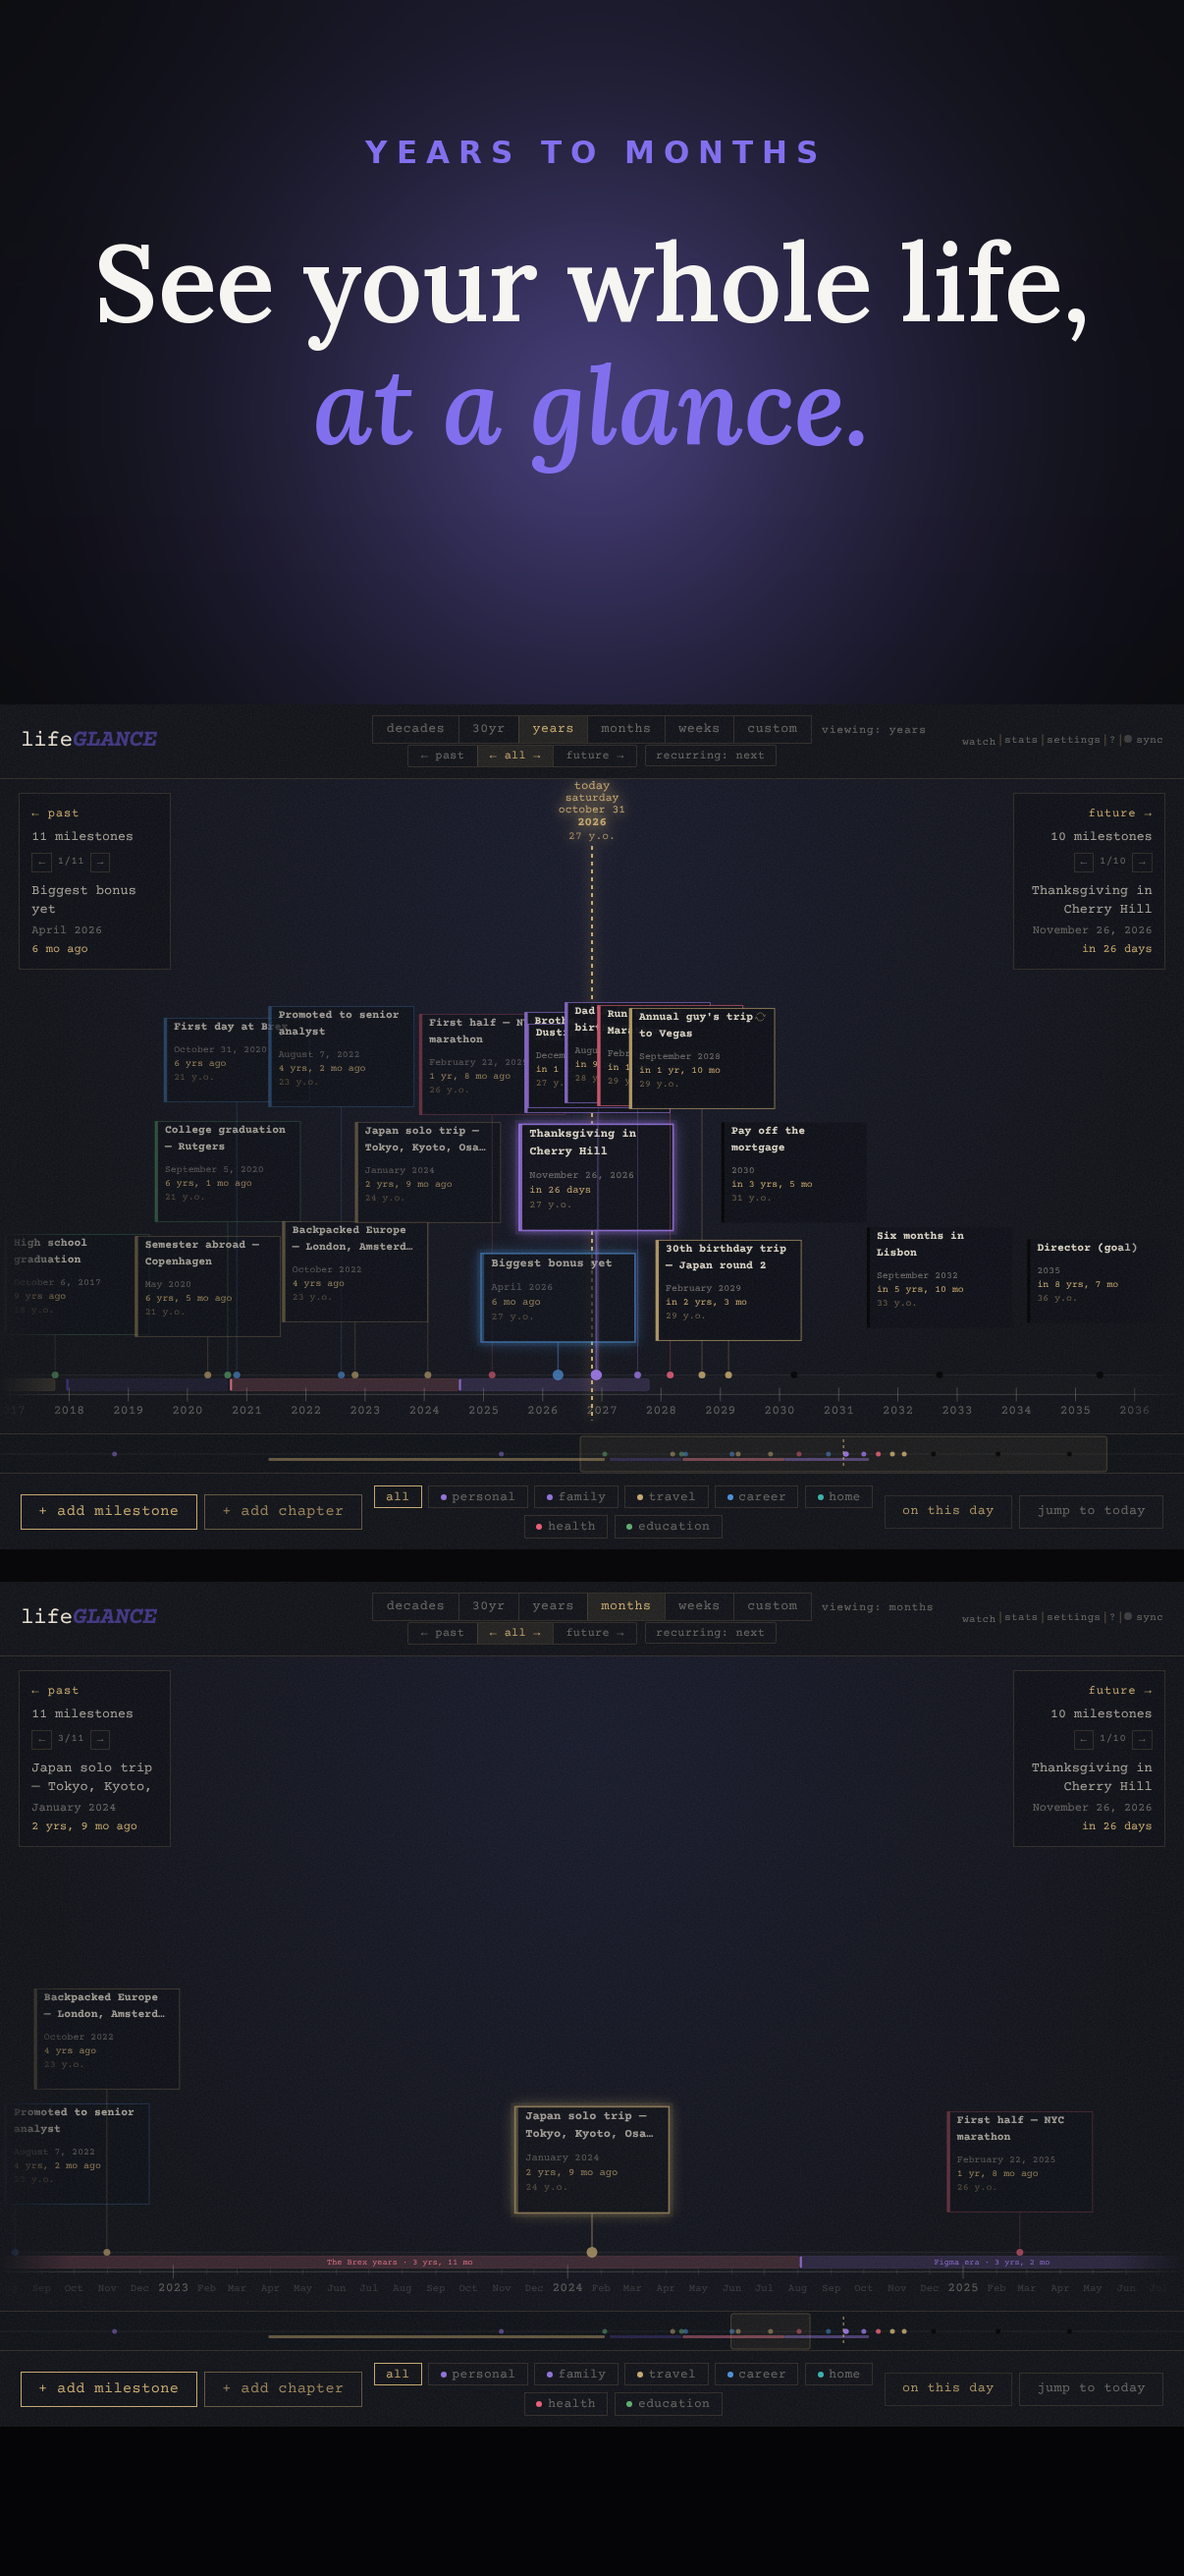
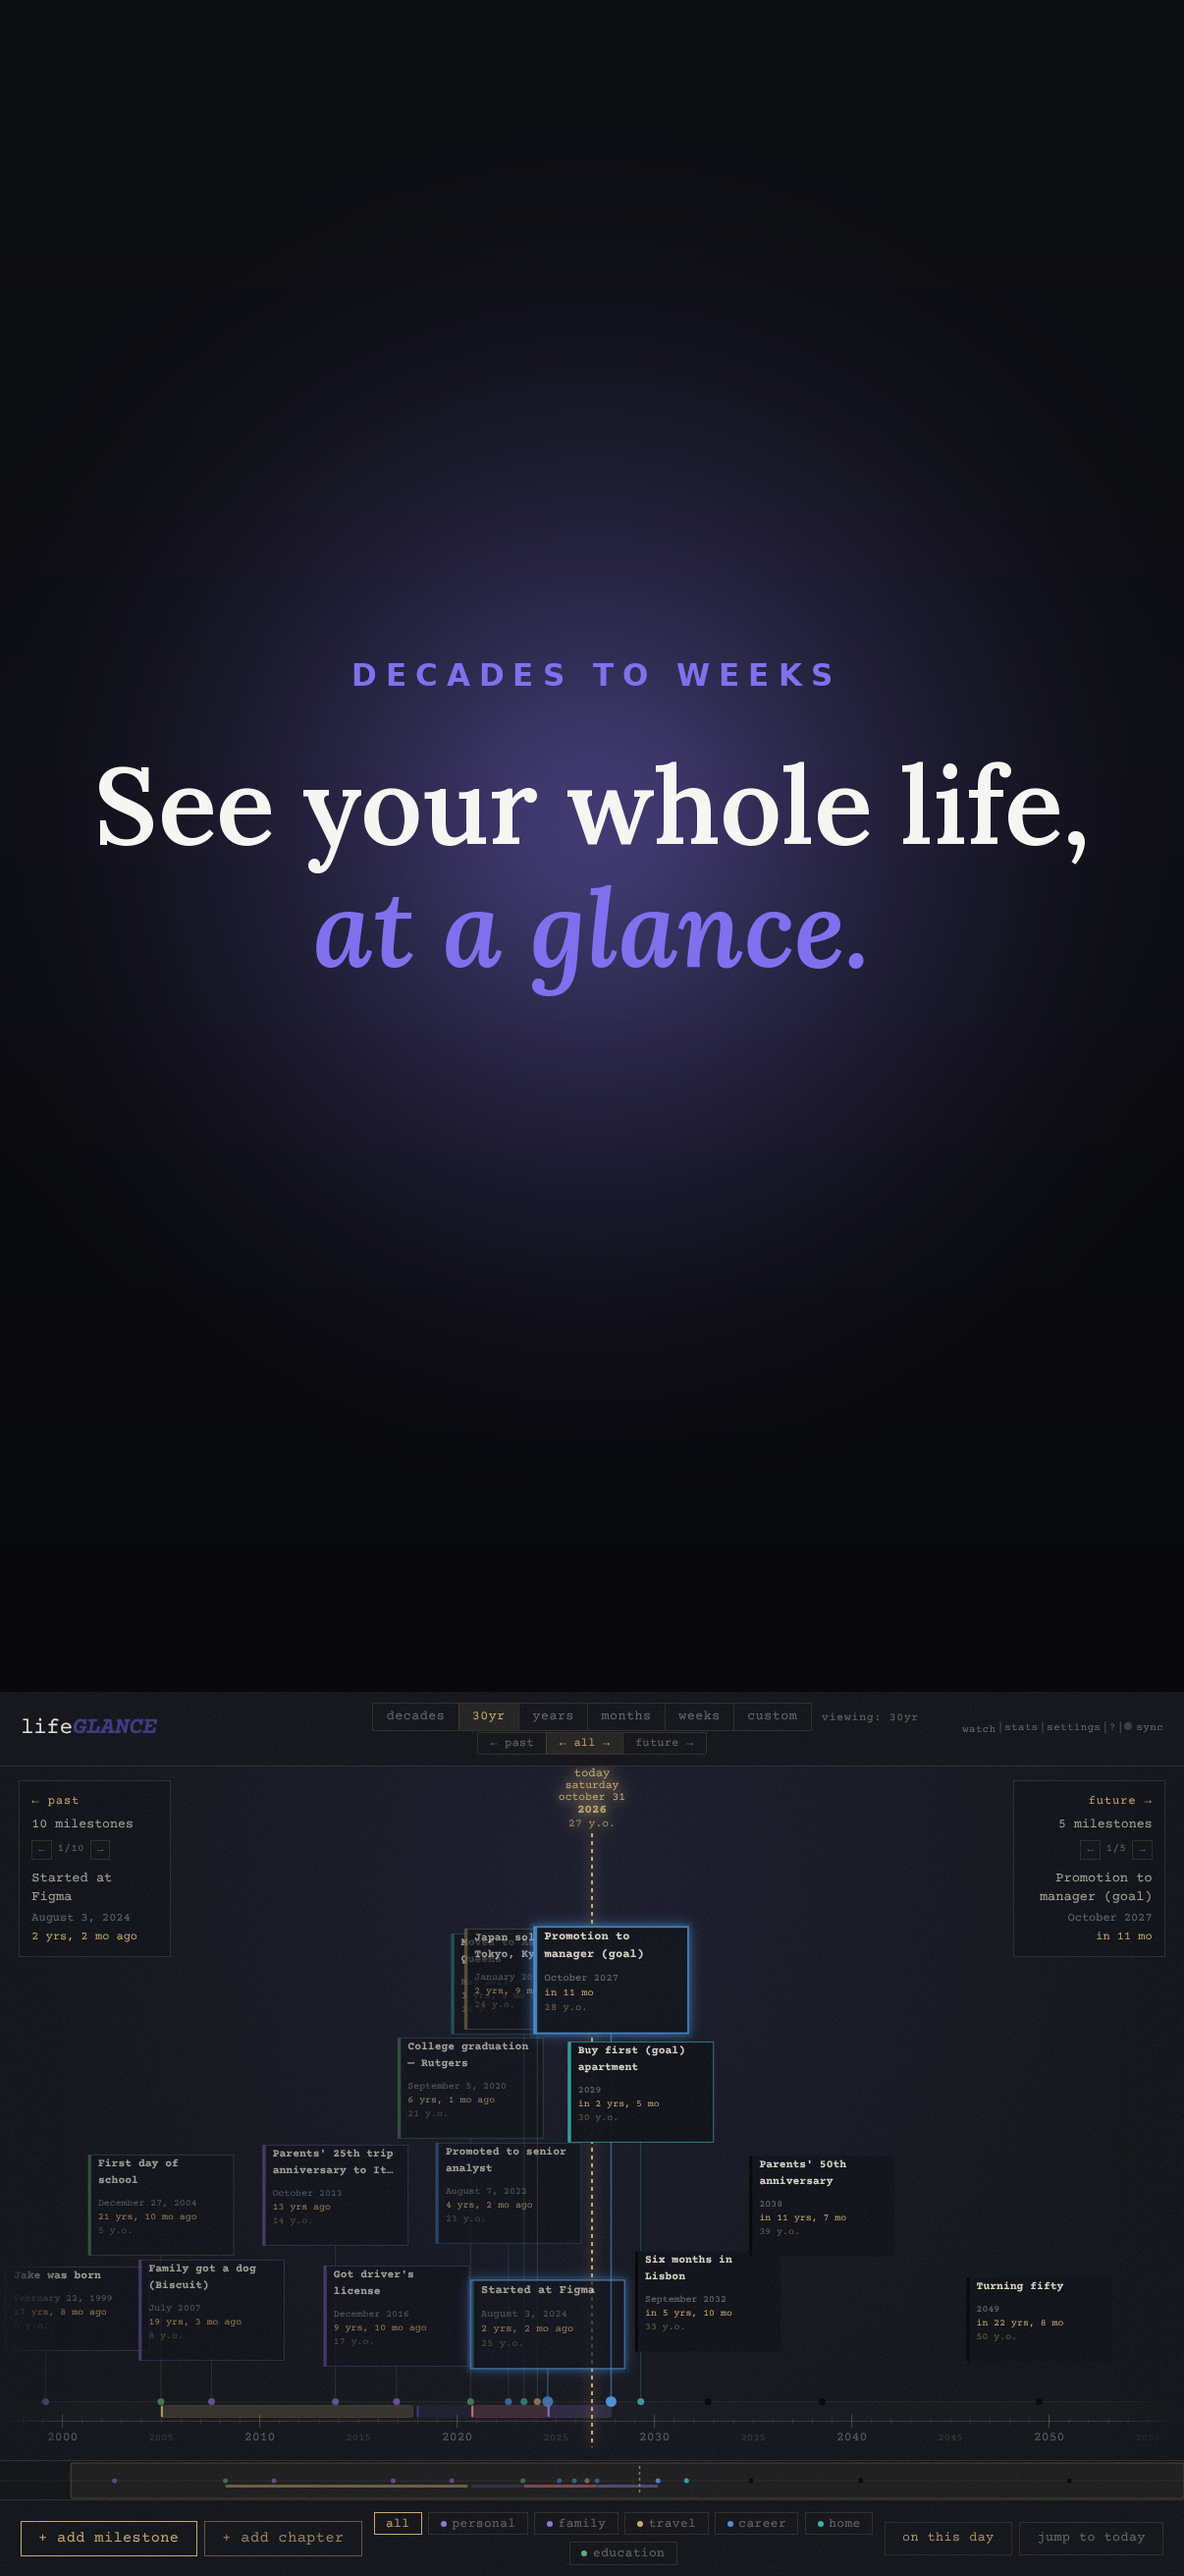
Reseed and reframe store screenshots 1 and 2
Both frames failed the same way: the pile-up was a seed problem, not a layout
one. About twenty milestones sat between 2017 and 2030 while the eighteen years
before that were nearly bare, so the cards collided in one decade however many
lanes the layout offered.

Shots 1 and 2 now draw on their own seed: thirteen milestones picked from the
same persona and spaced across five decades, plus far-future entries so the
right of a sixty-year window is not dead. Every other shot keeps the ordinary
seed and is untouched — an ONLY filter in both scripts renders a subset, so a
re-run cannot move a signed-off frame.

Shot 1 is one pane rather than two stacked, which is what fixes the collisions:
one pane gets the lanes that were previously split between two. It stays at
30yr, which the reseed made viable — the span now carries cards from 1999 to
2049 with the today marker and age legible, so the caption keeps its claim on
the span and no fallback headline was needed.

Shot 2 is also one pane. The caption promises chapters, so the frame had to be
of chapters: it zooms to months, where a ribbon is wide enough to carry its
name and duration (at years they degrade to unlabelled stripes, and cropping
only magnifies stripes), and the compositor crops into a 2x capture at 1:1 to
drop the empty head and the footer chrome. What is left is a run of milestones
sitting on a labelled era.

A compact-layout pane tops out near 900px tall, so for these two the caption
[…]

diff --git a/scripts/compose-apple-frames.py b/scripts/compose-apple-frames.py
@@ -14,6 +14,7 @@ The kit's background loop is per-pixel Python, which costs ~40s on a 2752x2064
 canvas. Vectorised here with numpy; the output is the same image.
 """
 import json
+import os
 import sys
 from pathlib import Path
 
@@ -125,10 +126,19 @@ def draw_bullets(canvas, bullets, top, bottom, size=56, gap=130):
         d.text((x + dot_r * 2 + dot_gap, ly), text, font=f, fill=fg)
 
 
-def fit_width(path, width):
+def fit_width(path, width, crop=None):
     """Load a pane and scale it to the canvas width. Full bleed: no bezel, no
-    mask, no shadow — the app surface runs to both edges."""
+    mask, no shadow — the app surface runs to both edges.
+
+    `crop` is (x0, x1, y0, y1) as fractions of the capture. Cropping to a
+    region narrower than the capture and then fitting to the canvas width
+    magnifies it — the only way to make a 16px chapter band the subject of a
+    frame rather than a strip under the cards."""
     im = Image.open(path).convert("RGB")
+    if crop:
+        x0, x1, y0, y1 = crop
+        im = im.crop((round(x0 * im.width), round(y0 * im.height),
+                      round(x1 * im.width), round(y1 * im.height)))
     if im.width != width:
         im = im.resize((width, round(im.height * width / im.width)), Image.LANCZOS)
     return im
@@ -153,9 +163,18 @@ def k(v):
     return round(v * PHONE_K)
 
 SHOTS = [
-    dict(kind="iphone", out="iphone-dynamic-island/01-decades.png", panes=["iphone/01a", "iphone/01b"],
-         eyebrow="YEARS TO MONTHS", l1="See your whole life,", l2="at a glance."),
-    dict(kind="iphone", out="iphone-dynamic-island/02-chapters.png", panes=["iphone/02a", "iphone/02b"],
+    # Shots 1 and 2 are a single full-height pane. Stacking two panes gave each
+    # half the canvas height, which halved the lanes and was the direct cause of
+    # the card collisions in these two frames.
+    dict(kind="iphone", out="iphone-dynamic-island/01-decades.png", panes=["iphone/01a"], full=True,
+         eyebrow="DECADES TO WEEKS", l1="See your whole life,", l2="at a glance."),
+    # Cropped into the 2x capture at 1:1, which doubles the band's size without
+    # resampling: compact layout parks the axis near the foot of the pane, so
+    # uncropped the ribbon is a strip along the bottom under a half-empty pane.
+    # The crop drops the empty head and the footer chrome and leaves the run of
+    # milestones sitting on their labelled era, which is the caption's claim.
+    dict(kind="iphone", out="iphone-dynamic-island/02-chapters.png", panes=["iphone/02a"], full=True,
+         crop=(0.25, 0.75, 0.38, 0.88),
          eyebrow="CHAPTERS", l1="The eras you lived,", l2="drawn to scale."),
     dict(kind="iphone", out="iphone-dynamic-island/03-future.png", panes=["iphone/03a", "iphone/03b"],
          eyebrow="THE FUTURE HALF", l1="Half your timeline", l2="hasn't happened yet."),
@@ -173,13 +192,33 @@ SHOTS = [
 
 
 def compose_iphone(shot, pane_dir, out_path):
+    panes = [fit_width(pane_dir / f"{p}.png", IPHONE_W, shot.get("crop"))
+             for p in shot["panes"]]
+    block_h = sum(p.height for p in panes) + PANE_GAP * (len(panes) - 1)
+
+    if shot.get("full"):
+        # One pane, bleeding to the bottom edge. A compact-layout pane tops out
+        # near 900px tall, so the caption centres in whatever is left above it
+        # rather than sitting pinned to the top — otherwise the frame is a
+        # caption and a screenshot with a thousand pixels of nothing between
+        # them. The glow follows the caption, so the light stays behind the type.
+        pane = panes[0]
+        pane_top = IPHONE_H - pane.height
+        cap_block = k(420)
+        eb_y = max(k(150), (pane_top - cap_block) // 2)
+        canvas = build_bg(IPHONE_W, IPHONE_H,
+                          glow_y=(eb_y + cap_block * 0.45) / IPHONE_H)
+        draw_caption(canvas, shot["eyebrow"], shot["l1"], shot["l2"],
+                     eb_y=eb_y, eb_size=k(34), eb_track=k(10),
+                     head_y=eb_y + k(86), head_size=k(132), head_pad=k(210))
+        canvas.paste(pane, (0, pane_top))
+        canvas.save(out_path)
+        return canvas.size
+
     canvas = build_bg(IPHONE_W, IPHONE_H)
     draw_caption(canvas, shot["eyebrow"], shot["l1"], shot["l2"],
                  eb_y=k(150), eb_size=k(34), eb_track=k(10),
                  head_y=k(236), head_size=k(132), head_pad=k(210))
-
-    panes = [fit_width(pane_dir / f"{p}.png", IPHONE_W) for p in shot["panes"]]
-    block_h = sum(p.height for p in panes) + PANE_GAP * (len(panes) - 1)
 
     if shot.get("bullets"):
         # One pane plus the privacy block: seat the pane just under the caption
@@ -221,15 +260,20 @@ def compose_ipad(shot, pane_dir, out_path):
 
 def main():
     pane_dir, out_dir = Path(sys.argv[1]), Path(sys.argv[2])
+    # Mirrors ONLY in screenshots.mjs: rebuild just these shots and leave every
+    # other committed frame exactly as it is.
+    only = [x.strip() for x in os.environ.get("ONLY", "").split(",") if x.strip()]
     made = []
     for shot in SHOTS:
+        if only and not any(p.startswith(o) for o in only for p in shot["panes"]):
+            continue
         dest = out_dir / "apple" / shot["out"]
         dest.parent.mkdir(parents=True, exist_ok=True)
         size = (compose_iphone if shot["kind"] == "iphone" else compose_ipad)(shot, pane_dir, dest)
         made.append((dest.relative_to(out_dir), size))
         print(f"  ✓ apple/{shot['out']}  {size[0]} x {size[1]}")
     (out_dir / "apple" / "captions.json").write_text(json.dumps(
-        [{k: s[k] for k in ("out", "eyebrow", "l1", "l2")} for s in SHOTS], indent=2) + "\n")
+        [{f: sh[f] for f in ("out", "eyebrow", "l1", "l2")} for sh in SHOTS], indent=2) + "\n")
     return made
 
 
